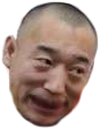
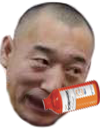
Bugs fixed; boss behaviors updated

diff --git a/Facraft.py b/Facraft.py
@@ -103,12 +103,17 @@ enemy_timer = 0
 bullets = []
 enemies = []
 boss = False
+dlg_drinking_image = pygame.image.load('dlg_drinking.png').convert_alpha()
+dlg_image = pygame.image.load('dlg.png').convert_alpha()
 game_over = False
 paused = False
+ccps_counter = 0
+special_attack = False
 bullet_type = 'b'
 bullet_dmg = 2
 bullet_pattern = 2
 score = 90
+clock = pygame.time.Clock()
 
 fa = pygame.sprite.Sprite()
 fa.image = pygame.image.load('fa.png').convert_alpha()
@@ -117,6 +122,7 @@ fa.rect = fa.image.get_rect()
 
 # main loop
 while True:
+    clock.tick(30)
 
     # determine whether to restart/quit
     for event in pygame.event.get():
@@ -125,6 +131,8 @@ while True:
             exit()
         elif game_over and event.type==pygame.MOUSEBUTTONUP:
             game_over = False
+            enemies = []
+            bullets = []
             boss = False
             score = 0
             bullet_type = 'a'
@@ -134,7 +142,7 @@ while True:
             paused = not(paused)
 
     # level up
-    if score==25:
+    if score==20:
         bullet_pattern = 2
     if score>=85 and score<90:
         bullet_type = 'b'
@@ -143,6 +151,7 @@ while True:
 
     screen.blit(background, (0,0))
 
+    # show score
     score_font = pygame.font.Font('Arial.ttf', 32)
     score_label = score_font.render('score: '+str(score), True, (255, 255, 255))
     screen.blit(score_label, (20, 20))
@@ -175,7 +184,7 @@ while True:
 
     # summon boss
     if score>=100 and score<200:
-        if boss==False:
+        if boss==False and enemies==[]:
             boss = True
             dlg = Boss(type='dlg', hp=1000, dx=0, dy=0, x=600, score=100)
             dlg.timer = -15
@@ -186,16 +195,23 @@ while True:
     enemy_timer += 1
     if enemy_timer==20:
         enemy_timer = 0
-        if score<40:
+        if score<35:
             enemies.append(Enemy())
             enemies.append(Enemy())
-        if score>=40 and score<100:
+        if score>=35 and score<100:
             enemies.append(Enemy())
             enemies.append(Enemy(dy=10))
             enemies.append(Player_targeting_enemy(score=2))
             enemies.append(Player_targeting_enemy(score=2))
-        if score>=100 and score<200:
-            enemies.append(Player_targeting_bullet(type='knife', hp=1, dx=0, dy=15, x=dlg.rect.x, y=dlg.rect.y, score=0))
+        if score>=100 and score<200 and type(enemies[0])==Boss:
+            if special_attack==False:
+                enemies.append(Player_targeting_bullet(type='knife', hp=1, dx=0, dy=15, x=dlg.rect.x, y=dlg.rect.y, score=0))
+            else:
+                special_attack = False
+                dlg.image = dlg_image
+                enemies.append(Player_targeting_bullet(type='knife', hp=1, dx=0, dy=5, x=dlg.rect.x, y=dlg.rect.y, score=0))
+                enemies.append(Player_targeting_bullet(type='knife', hp=1, dx=0, dy=10, x=dlg.rect.x, y=dlg.rect.y, score=0))
+                enemies.append(Player_targeting_bullet(type='knife', hp=1, dx=0, dy=15, x=dlg.rect.x, y=dlg.rect.y, score=0))
 
     # update bullets' positions
     i = len(bullets) - 1
@@ -210,6 +226,12 @@ while True:
     # update enemies' positions
     i = len(enemies) - 1
     while i>=0:
+        if type(enemies[i])==Boss:
+            if ccps_counter==20:
+                ccps_counter = 0
+                dlg.image = dlg_drinking_image
+                special_attack = True
+                dlg.hp -= 100
         enemies[i].move()
         if enemies[i].existence==False:
             del enemies[i]
@@ -232,6 +254,8 @@ while True:
         while j>=0:
             if pygame.sprite.collide_mask(enemies[i], bullets[j])!=None:
                 enemies[i].hp -= bullets[j].dmg
+                if type(enemies[i])==Boss:
+                    ccps_counter += bullets[j].dmg
                 del bullets[j]
                 if enemies[i].hp<=0:
                     score += enemies[i].score
